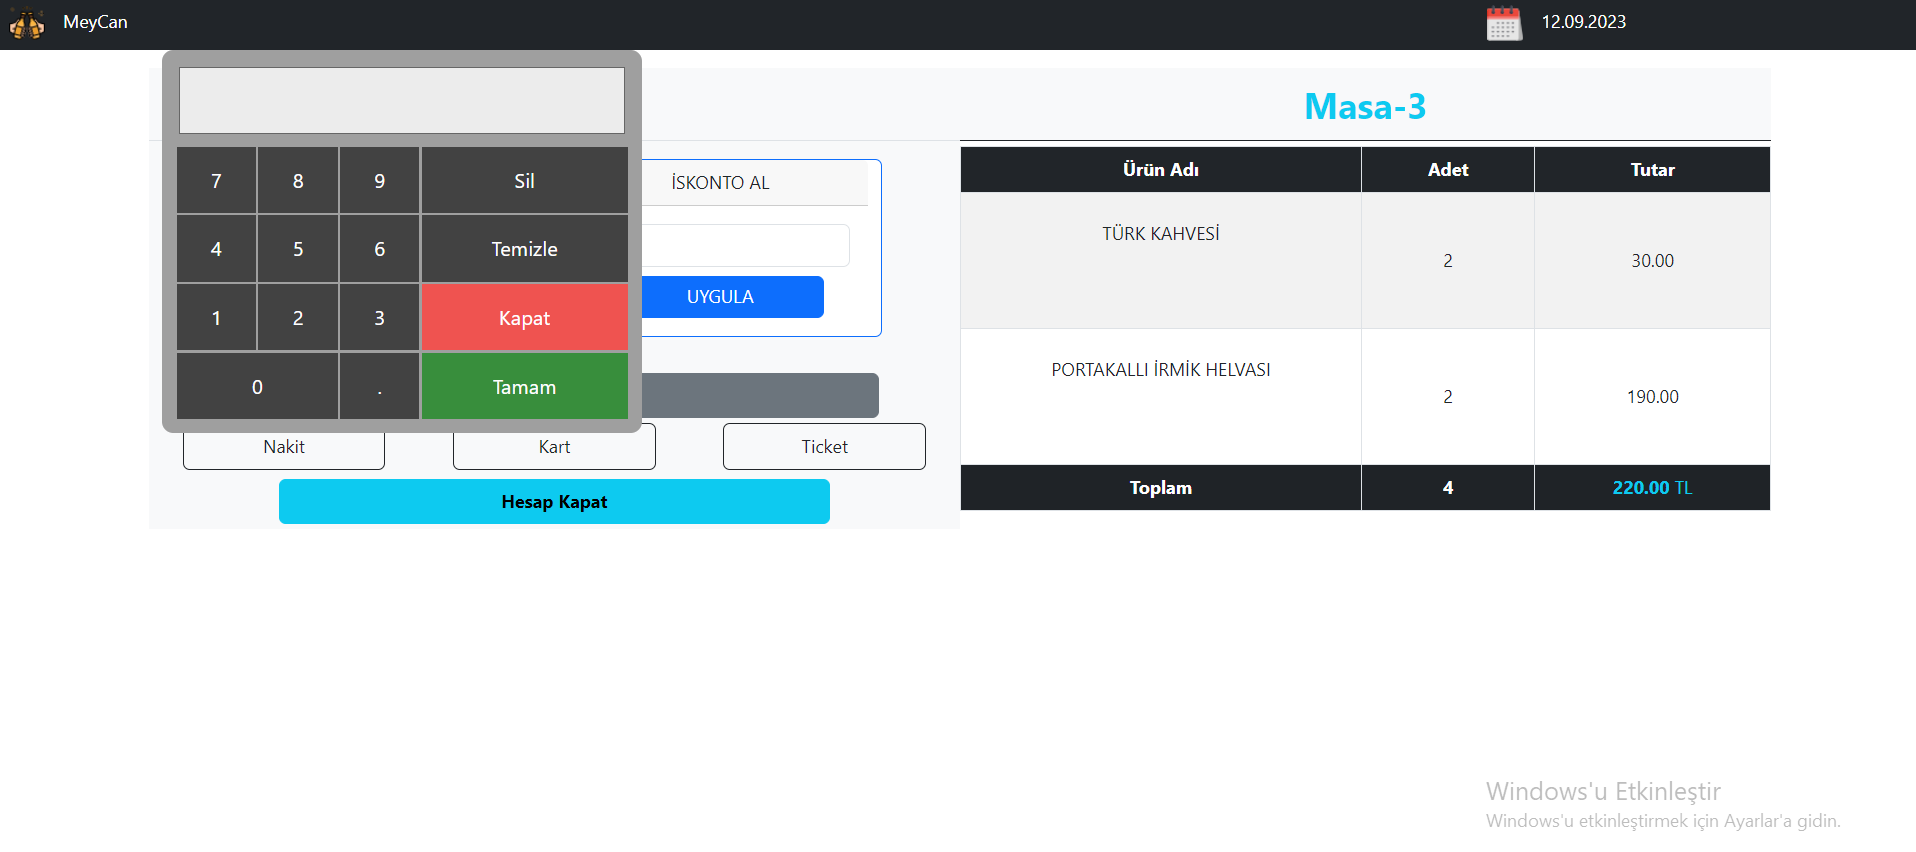
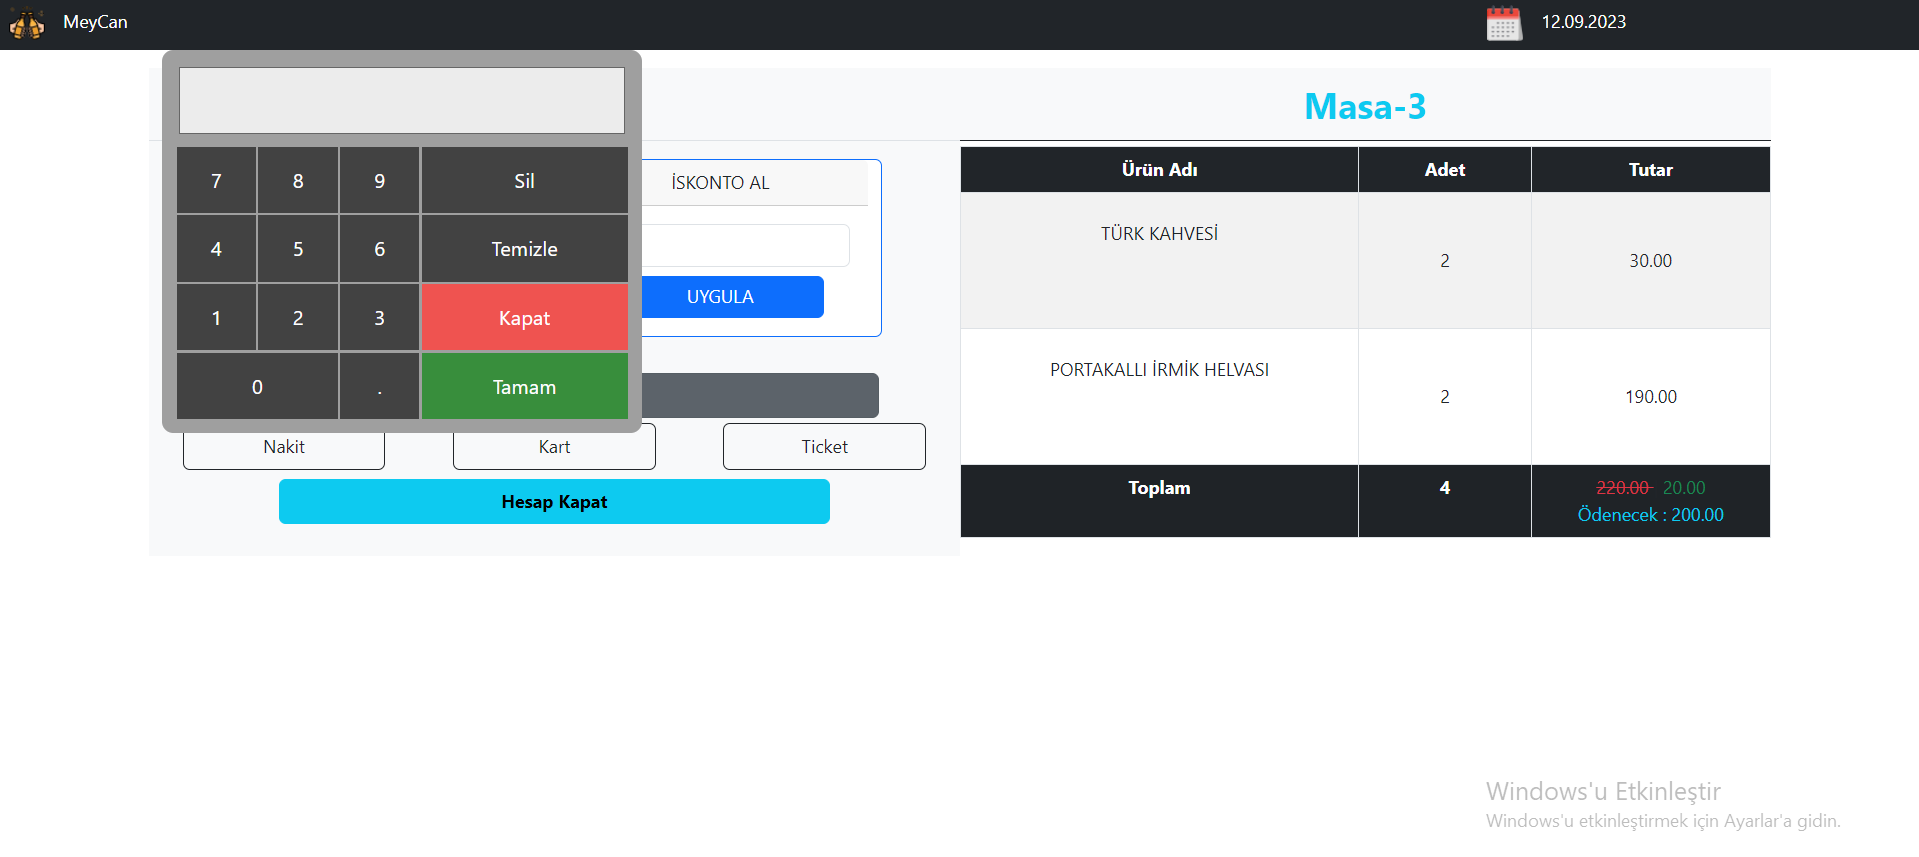
Açıklama 3

diff --git a/README.md b/README.md
@@ -6,3 +6,7 @@
 >> ![anasayfa](screenshot/garson1.png)
 >> ![masadetay](screenshot/garson2.png)
 >> Garson rezervasyon yapma-kaldırma işlemi yapabilir. Masaya ürün ekleyebilir. Ürünleri silebilir. Masa birleştirme ve değiştirme yapabilir. Adisyon alır.
+> 3. Kasiyer Sayfası
+>> ![kasa](screenshot/kasa1.png)
+>> ![kasa](screenshot/kasa2.png)
+>> Kasiyer masaların hesap işlemlerini yapar. İskonto alma veya parça hesap alma işlemi uygulayabilir.
